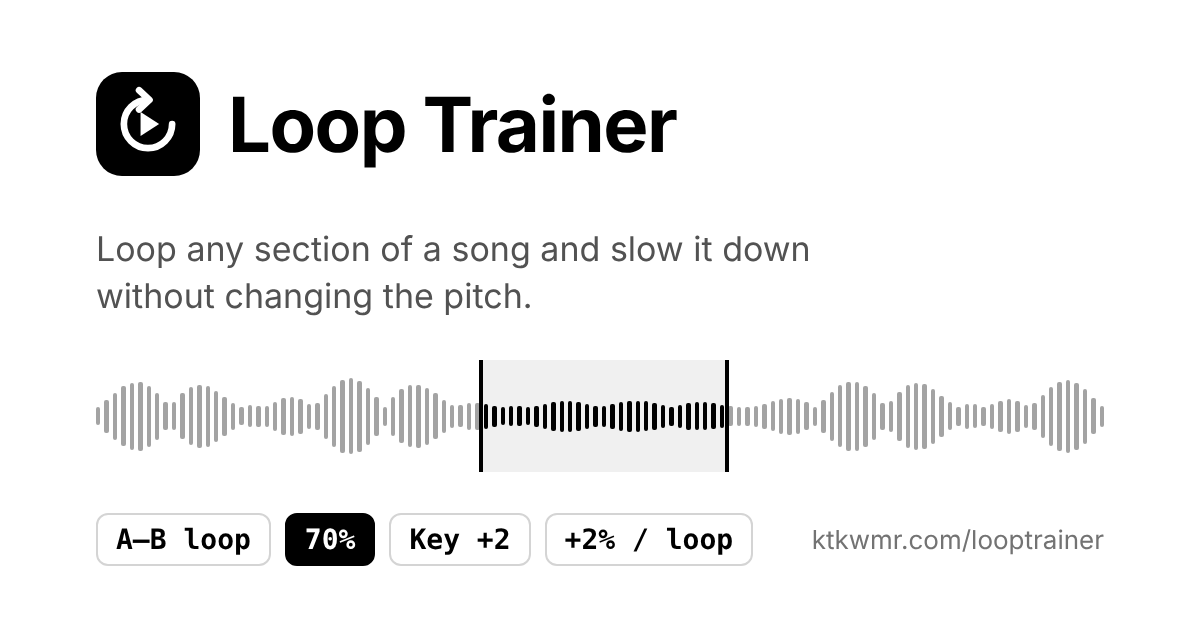
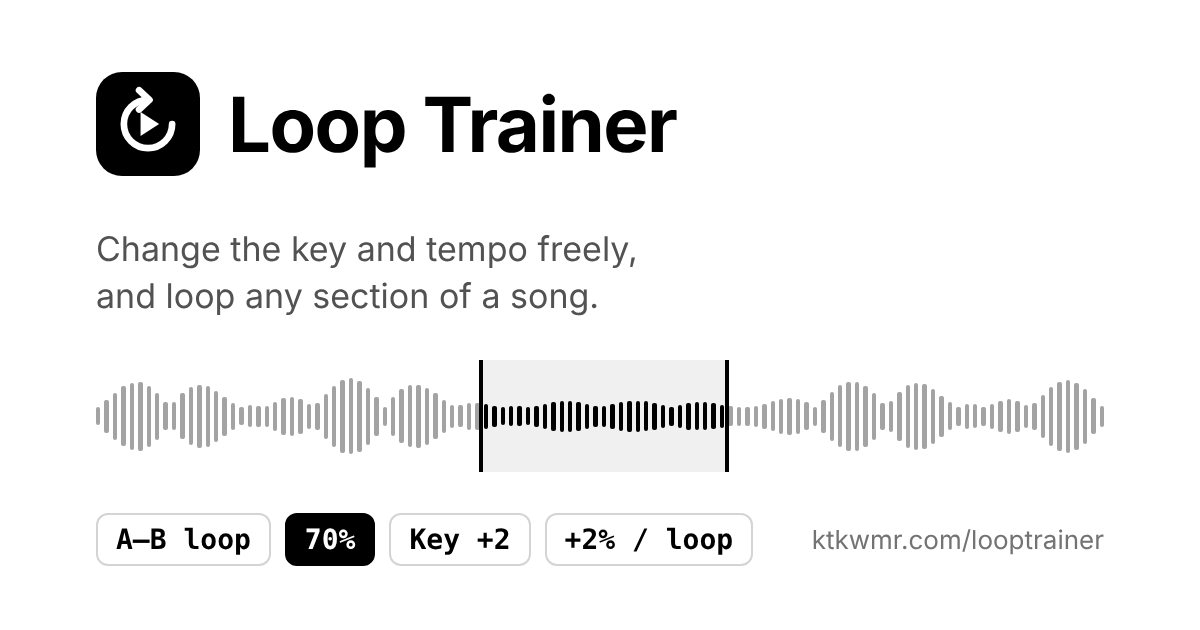
アプリの説明を「キーとテンポを自由に変えて、好きな区間をループ再生」に統一 (#2)
- title・description・OGP・JSON-LD（英日）、h1、冒頭の説明、manifest、情報ページの案内、運営者情報、SNS 用画像
- README・CLAUDE.md の冒頭
- docs/baseline-status.md: Cloudflare 接続・自動デプロイ・トップページ掲載・本番確認を済みに、About の値を新しい文言に

Claude-Session: https://claude.ai/code/session_01Lgcwksu9gho4UzGNuCXc1M

Changed region(s): [[0.0925, 0.3619, 0.6783, 0.4222], [0.0617, 0.4524, 0.4933, 0.5127]]

diff --git a/public/looptrainer/ja/index.html b/public/looptrainer/ja/index.html
@@ -13,16 +13,16 @@
   <link rel="apple-touch-icon" href="icons/apple-touch-icon.png" />
   <link rel="manifest" href="manifest.json" />
   <link rel="icon" type="image/svg+xml" href="icons/icon.svg" />
-  <title>耳コピ用スロー再生・区間ループ｜音程そのまま速度変更が無料 – Loop Trainer</title>
-  <meta name="description" content="耳コピ・フレーズ練習用の無料プレイヤー。音源ファイルの好きな区間をループ再生（A-Bリピート）し、音程を変えずに50%までスロー再生、キー変更もできます。1周ごとに少しずつ速くする機能・カウントイン付き。ファイルはアップロードされず、登録不要。" />
+  <title>キー・テンポを自由に変えて区間ループ｜音程そのままスロー再生できる耳コピ用プレイヤー – Loop Trainer</title>
+  <meta name="description" content="耳コピ・フレーズ練習用の無料プレイヤー。手持ちの音源のキーとテンポを自由に変えて、好きな区間をループ再生（A-Bリピート）。音程を変えずに50%までスロー再生でき、ループは拍に吸着。1周ごとに少しずつ速くする機能・カウントイン付き。ファイルはアップロードされず、登録不要。" />
   <link rel="canonical" href="https://ktkwmr.com/looptrainer/ja/" />
   <link rel="alternate" hreflang="en" href="https://ktkwmr.com/looptrainer/" />
   <link rel="alternate" hreflang="ja" href="https://ktkwmr.com/looptrainer/ja/" />
   <link rel="alternate" hreflang="x-default" href="https://ktkwmr.com/looptrainer/" />
   <meta property="og:type" content="website" />
   <meta property="og:site_name" content="Loop Trainer" />
-  <meta property="og:title" content="耳コピ用スロー再生・区間ループ｜音程そのまま速度変更が無料 – Loop Trainer" />
-  <meta property="og:description" content="区間ループ・音程そのままの速度変更・キー変更、1周ごとに少しずつ速くする機能。ギタリストやバンドの耳コピ練習に。無料・登録不要で、ファイルは端末の外に出ません。" />
+  <meta property="og:title" content="キー・テンポを自由に変えて区間ループ｜音程そのままスロー再生できる耳コピ用プレイヤー – Loop Trainer" />
+  <meta property="og:description" content="キーとテンポを自由に変えて、好きな区間をループ再生。スロー再生でも音程はそのまま。ギタリストやバンドの耳コピ練習に。無料・登録不要で、ファイルは端末の外に出ません。" />
   <meta property="og:locale" content="ja_JP" />
   <meta property="og:locale:alternate" content="en_US" />
   <meta property="og:url" content="https://ktkwmr.com/looptrainer/ja/" />
@@ -37,7 +37,7 @@
     "@type": "WebApplication",
     "name": "Loop Trainer",
     "url": "https://ktkwmr.com/looptrainer/ja/",
-    "description": "音源ファイルの区間をループ再生し、音程を変えずに速度を、テンポを変えずにキーを変えられる練習用プレイヤー。",
+    "description": "音源ファイルのキーとテンポを自由に変えて、好きな区間をループ再生できる練習用プレイヤー（速度を変えても音程、キーを変えてもテンポはそのまま）。",
     "applicationCategory": "MultimediaApplication",
     "inLanguage": "ja",
     "operatingSystem": "Any",
@@ -265,7 +265,7 @@
   </header>
 
   <main class="canvas">
-    <p class="lead" data-i18n="lead">手持ちの音源を開くだけで、曲全体の速度を音程そのままで変えたり（50〜150%）、キーをテンポそのままで変えたりできます。練習したい部分を選べば、拍に合わせてループ再生。ループと設定は曲ごとに保存されます。</p>
+    <p class="lead" data-i18n="lead">手持ちの音源を開いて、キーとテンポを自由に変えられます。速度（50〜150%）を変えても音程はそのまま、キーを変えてもテンポはそのまま。好きな区間を選べば、拍に合わせてループ再生します。ループと設定は曲ごとに保存されます。</p>
 
     <section class="panel out" aria-label="プレイヤー" data-i18n-attr="aria-label:player">
       <div class="panel-head">
@@ -392,7 +392,7 @@
 
   <!-- Description below the app. The generated ja/index.html has it in Japanese, so search engines read it as the page text -->
   <section class="intro" aria-labelledby="introTitle">
-    <h1 id="introTitle" data-i18n="intro.title">音程を変えずにスロー再生・区間ループできる耳コピ練習プレイヤー</h1>
+    <h1 id="introTitle" data-i18n="intro.title">キーとテンポを自由に変えて、好きな区間をループ再生できる耳コピ練習プレイヤー</h1>
     <div class="intro-body" data-i18n-html="intro.body"><p>Loop Trainer は、耳コピやフレーズ練習のための無料の練習用プレイヤーです。手持ちの音源ファイルを開き、波形の上をドラッグして練習したい部分を選ぶと、その区間を何度でも繰り返し再生（A-B リピート）します。曲の拍を自動で検出するので、ループの始まりと終わりがぴったり拍に乗ります。速度を 70% や 50% まで落としても音程（ピッチ）は変わらないので、速いギターソロの一音一音を聞き取りながら、原曲のキーのまま一緒に弾けます。</p>
       <h2>1周ごとに少しずつ速くする</h2>
       <p>「1周ごとに速くする」をオンにすると、最初はゆっくり、ループが一周するたびに少しずつ速くなります（例：70% → 72% → 74% … → 100%）。手を止めて設定を変えなくても、ゆっくり確実に弾くところから原曲のテンポまで続けて練習できます。ループの頭にカウントインのクリックを入れて、構えてから弾き始めることもできます。</p>
@@ -457,7 +457,7 @@
       const I18N = {
         en: {
           "settings": "Settings",
-          "lead": "Open a song you have to change its speed (50–150%) without changing the pitch, or its key without changing the tempo, for the whole song. Pick the part you want to learn and it loops, snapped to the beat. Loops and settings are saved for each song.",
+          "lead": "Open a song you have and change its key and tempo freely: the speed (50–150%) keeps the pitch, and the key keeps the tempo. Pick any section and it loops, snapped to the beat. Loops and settings are saved for each song.",
           "player": "Player",
           "practice": "Practice settings",
           "noFile": "No file open",
@@ -548,7 +548,7 @@
           "menu.help": "How to use",
           "menu.privacy": "Privacy",
           "menu.about": "About",
-          "intro.title": "Slow down a song and loop any section, without changing the pitch",
+          "intro.title": "Change the key and tempo freely, and loop any section of a song",
           "intro.body": "<p>Loop Trainer is a free practice player for learning songs by ear. Open an audio file you have, drag over the waveform to choose the part you want to learn, and it repeats that part as many times as you like. The app finds the beats of the song, so the loop points snap right onto the beat. Slow it down to 70% or even 50% and the pitch stays the same, so you can hear every note of a fast guitar solo and play along in the original key.</p>\n      <h2>Speed up a little on every loop</h2>\n      <p>Turn on “Speed up on every loop” and the loop starts slow, then gets a little faster each time it comes around: for example 70%, 72%, 74% … up to 100%. You practise the phrase slowly first and reach the real tempo without stopping to change anything. A count-in can click before each loop so you have time to get ready.</p>\n      <h2>Speed and key for the whole song, saved loops</h2>\n      <p>You can also simply change the speed or the key of the whole song and listen or play along, without a loop. Shift the key up or down by up to six semitones, together with the speed. Tune to a song recorded a half step down, or move it to fit your voice. The loops, speed, and key are saved for each song in your browser, and you can keep several named loops per song, such as “Intro” and “Solo, first half”. Open the same file next time and you pick up where you left off.</p>\n      <h2>Files stay on your device</h2>\n      <p>The audio is decoded and processed only in your browser and is never uploaded. It works with MP3, AAC (m4a), WAV, and other formats your browser can play, on a computer, tablet, or phone. Music from streaming services (Apple Music, Spotify, YouTube) cannot be opened. No sign-up is needed.</p>",
           "help.body": "<li><b>Open a song</b> – Tap “Open file” or drop an audio file on the waveform. MP3, AAC (m4a), and WAV work in every browser. Music from streaming services cannot be opened.</li>\n        <li><b>Choose the loop</b> – Drag across the waveform. To move a flag, tap A or B (it turns blue) and then tap where it should go, or long-press it and drag. While it plays, “A” and “B” set them at the current position. ◀ and ▶ move them to the previous or next beat. </li>\n        <li><b>Zoom the waveform</b> – Pinch with two fingers to stretch or shrink the waveform, and move two fingers sideways to scroll. On a computer, use Ctrl + wheel (or pinch on the trackpad) and Shift + wheel. “Zoom to loop” fits the loop to the screen; press it again to see the whole song.</li>\n        <li><b>Snap to beats</b> – The app finds the tempo and the beats of the song (♩ ≈ 120 means about 120 BPM), and the loop points snap to the nearest beat. If the tempo looks twice too fast or too slow, use ½ or ×2. Turn off “Snap to beats” to place the points freely (◀ ▶ then move by 0.05 seconds).</li>\n        <li><b>Slow down</b> – Set the speed between 50% and 150% with the buttons or the slider. The pitch does not change.</li>\n        <li><b>Change the key</b> – Move it up or down in semitones (up to ±6). The tempo does not change.</li>\n        <li><b>Speed up on every loop</b> – Turn it on and set where to start, how much to add each loop, and where to stop. It goes back to the first speed when you play from the start of the loop.</li>\n        <li><b>Count-in</b> – Clicks play before each loop. Enter the song's BPM (at 100%) or tap it in; the clicks follow the current speed.</li>\n        <li><b>Saved loops</b> – “+ Save this loop” adds the current loop to the list. Give it a name, and tap its time to go back to it. Everything is saved for each song and comes back when you open the same file.</li>",
           "privacy.body": "<li><b>Your audio stays on your device</b> – Audio files are decoded and played only in your browser. They are never uploaded to a server. This app has no accounts, cookies, or ads.</li>\n        <li><b>Data saved in your browser</b> – For each song you open, the file name and size, the loops, speed, key, and count-in tempo are saved in your browser's storage so they are there next time. The audio itself is not saved. To work offline, the app is saved there too. You can delete them by clearing this site's data in your browser settings.</li>\n        <li><b>Audio library</b> – When you open the first file, the app loads the SoundTouchJS library from the jsDelivr CDN. Like any web request, this sends your IP address and browser information to jsDelivr. Nothing about your audio is sent.</li>\n        <li><b>Server logs and page views</b> – This site is hosted on Cloudflare. Standard access logs (such as IP address, time, and the requested page) are kept for operation and security. Cloudflare Web Analytics counts page views without cookies (the page URL, referrer, browser information, and page load time).</li>\n        <li><b>Contact</b> – Questions and feedback: <a href=\"https://github.com/ktkwmr/LoopTrainer/issues\" target=\"_blank\" rel=\"noopener\">GitHub Issues</a>.</li>\n        <li><b>Full policy</b> – See the <a href=\"/looptrainer/privacy/\">privacy policy</a> and <a href=\"/looptrainer/about/\">about this site</a>.</li>",
@@ -558,7 +558,7 @@
         },
         ja: {
           "settings": "設定",
-          "lead": "手持ちの音源を開くだけで、曲全体の速度を音程そのままで変えたり（50〜150%）、キーをテンポそのままで変えたりできます。練習したい部分を選べば、拍に合わせてループ再生。ループと設定は曲ごとに保存されます。",
+          "lead": "手持ちの音源を開いて、キーとテンポを自由に変えられます。速度（50〜150%）を変えても音程はそのまま、キーを変えてもテンポはそのまま。好きな区間を選べば、拍に合わせてループ再生します。ループと設定は曲ごとに保存されます。",
           "player": "プレイヤー",
           "practice": "練習の設定",
           "noFile": "ファイルが開かれていません",
@@ -649,7 +649,7 @@
           "menu.help": "使い方",
           "menu.privacy": "プライバシー",
           "menu.about": "このアプリについて",
-          "intro.title": "音程を変えずにスロー再生・区間ループできる耳コピ練習プレイヤー",
+          "intro.title": "キーとテンポを自由に変えて、好きな区間をループ再生できる耳コピ練習プレイヤー",
           "intro.body": "<p>Loop Trainer は、耳コピやフレーズ練習のための無料の練習用プレイヤーです。手持ちの音源ファイルを開き、波形の上をドラッグして練習したい部分を選ぶと、その区間を何度でも繰り返し再生（A-B リピート）します。曲の拍を自動で検出するので、ループの始まりと終わりがぴったり拍に乗ります。速度を 70% や 50% まで落としても音程（ピッチ）は変わらないので、速いギターソロの一音一音を聞き取りながら、原曲のキーのまま一緒に弾けます。</p>\n      <h2>1周ごとに少しずつ速くする</h2>\n      <p>「1周ごとに速くする」をオンにすると、最初はゆっくり、ループが一周するたびに少しずつ速くなります（例：70% → 72% → 74% … → 100%）。手を止めて設定を変えなくても、ゆっくり確実に弾くところから原曲のテンポまで続けて練習できます。ループの頭にカウントインのクリックを入れて、構えてから弾き始めることもできます。</p>\n      <h2>曲全体の速度・キー変更とループの保存</h2>\n      <p>ループを使わずに、曲全体の速度やキーを変えて聞いたり、一緒に弾いたりするだけでも使えます。キーは速度と同時に、半音単位で上下 6 つまで変えられます。半音下げチューニングの曲に合わせたり、歌いやすいキーに移したりするときに使えます。ループ範囲・速度・キーは曲ごとにブラウザに保存され、「イントロ」「ソロ前半」のように名前を付けたループを 1 曲にいくつでも残せます。次に同じファイルを開けば、前回の続きから練習できます。</p>\n      <h2>ファイルは端末の外に出ません</h2>\n      <p>音源の読み込みと処理はブラウザの中だけで行い、どこにもアップロードしません。MP3・AAC（m4a）・WAV など、ブラウザが再生できる形式に対応し、パソコン・タブレット・スマホで使えます。Apple Music・Spotify・YouTube など配信サービスの曲は開けません。登録は不要です。</p>",
           "help.body": "<li><b>曲を開く</b> – 「ファイルを開く」を押すか、波形の場所に音源ファイルをドロップします。MP3・AAC（m4a）・WAV はどのブラウザでも開けます。配信サービスの曲は開けません。</li>\n        <li><b>ループ範囲を選ぶ</b> – 波形の上をドラッグします。旗を動かすときは、A か B をタップして（青くなります）移動先をタップするか、長押しして掴んだままドラッグします。再生中に「A」「B」を押すと今の位置に設定されます。◀ ▶ で前後の拍に動かせます。</li>\n        <li><b>波形の拡大・縮小</b> – 2本指でピンチすると波形が横に伸び縮みし、2本指を左右に動かすとスクロールします。パソコンでは Ctrl＋ホイール（トラックパッドのピンチ）と Shift＋ホイールで同じことができます。「ループを拡大」でループを画面いっぱいに表示し、もう一度押すと曲全体に戻ります。</li>\n        <li><b>拍に合わせる</b> – 曲のテンポと拍の位置を自動で検出し（♩ ≈ 120 は約 120 BPM）、A・B が一番近い拍に吸い付きます。テンポが倍や半分に見えるときは ½ か ×2 で直せます。「拍に合わせる」をオフにすると自由な位置に置けます（◀ ▶ は 0.05 秒ずつ）。</li>\n        <li><b>速度を落とす</b> – ボタンやスライダーで 50%〜150% に設定します。音程は変わりません。</li>\n        <li><b>キーを変える</b> – 半音単位で上下に動かします（±6 まで）。テンポは変わりません。</li>\n        <li><b>1周ごとに速くする</b> – オンにして、開始の速度・1周ごとの上げ幅・上限を決めます。ループの先頭から再生すると、開始の速度に戻ります。</li>\n        <li><b>カウントイン</b> – ループの前にクリックが鳴ります。曲の BPM（100% のとき）を入力するか、タップで合わせます。クリックは今の速度に合わせて鳴ります。</li>\n        <li><b>ループの保存</b> – 「＋ このループを保存」で今のループを一覧に追加します。名前を付けておき、時間のボタンを押すと呼び出せます。設定は曲ごとに保存され、同じファイルを開くと元に戻ります。</li>",
           "privacy.body": "<li><b>音源は端末の外に出ません</b> – 音源ファイルの読み込みと再生はブラウザの中だけで行い、サーバーにアップロードすることはありません。アカウント登録・Cookie・広告はありません。</li>\n        <li><b>ブラウザに保存するデータ</b> – 次に開いたときにも使えるよう、開いた曲ごとにファイル名とサイズ、ループ範囲・速度・キー・カウントインのテンポをブラウザ内に保存します。音源そのものは保存しません。オフラインで使えるよう、アプリ本体も保存します。ブラウザの設定でこのサイトのデータを削除すると消えます。</li>\n        <li><b>音声処理のライブラリ</b> – 最初にファイルを開いたとき、jsDelivr（CDN）から SoundTouchJS というライブラリを読み込みます。通常の Web の通信と同じく、IP アドレスやブラウザの情報が jsDelivr に送られます。音源に関する情報は送られません。</li>\n        <li><b>サーバーのログと閲覧数</b> – 本サイトは Cloudflare で配信しています。運用とセキュリティのため、一般的なアクセスログ（IP アドレス・日時・アクセスしたページなど）が記録されます。Cloudflare Web Analytics で、Cookie を使わずにページの閲覧数（ページの URL・参照元・ブラウザの情報・表示速度）を集計しています。</li>\n        <li><b>お問い合わせ</b> – ご質問・ご意見は <a href=\"https://github.com/ktkwmr/LoopTrainer/issues\" target=\"_blank\" rel=\"noopener\">GitHub の Issues</a> へ。</li>\n        <li><b>詳しくは</b> – <a href=\"/looptrainer/ja/privacy/\">プライバシーポリシー</a>と<a href=\"/looptrainer/ja/about/\">運営者情報</a>をご覧ください。</li>",

diff --git a/public/looptrainer/index.html b/public/looptrainer/index.html
@@ -11,16 +11,16 @@
   <link rel="apple-touch-icon" href="icons/apple-touch-icon.png" />
   <link rel="manifest" href="manifest.json" />
   <link rel="icon" type="image/svg+xml" href="icons/icon.svg" />
-  <title>Slow Down Music &amp; Loop a Section for Practice, Pitch Unchanged – Loop Trainer</title>
-  <meta name="description" content="A free online practice player for learning songs by ear. Loop any section (A-B repeat), slow it down to 50% without changing the pitch, change the key, and speed up a little on every loop. Files stay on your device. No sign-up." />
+  <title>Change Key &amp; Tempo, Loop Any Section – Slow Down Music Without Changing Pitch | Loop Trainer</title>
+  <meta name="description" content="A free online practice player for learning songs by ear. Change the key and the tempo of a song you have freely, and loop any section (A-B repeat). Slow down to 50% without changing the pitch, loops snap to the beat, and it can speed up a little on every loop. Files stay on your device. No sign-up." />
   <link rel="canonical" href="https://ktkwmr.com/looptrainer/" />
   <link rel="alternate" hreflang="en" href="https://ktkwmr.com/looptrainer/" />
   <link rel="alternate" hreflang="ja" href="https://ktkwmr.com/looptrainer/ja/" />
   <link rel="alternate" hreflang="x-default" href="https://ktkwmr.com/looptrainer/" />
   <meta property="og:type" content="website" />
   <meta property="og:site_name" content="Loop Trainer" />
-  <meta property="og:title" content="Loop Trainer – Slow down and loop any section of a song" />
-  <meta property="og:description" content="A-B loop, slow down without changing the pitch, change the key, and speed up a little on every loop. A free practice player for guitarists and bands. Files never leave your device." />
+  <meta property="og:title" content="Loop Trainer – Change the key and tempo freely, and loop any section" />
+  <meta property="og:description" content="Change the key and the tempo freely, and loop any section of a song. The pitch stays the same when you slow down. A free practice player for guitarists and bands. Files never leave your device." />
   <meta property="og:locale" content="en_US" />
   <meta property="og:locale:alternate" content="ja_JP" />
   <meta property="og:url" content="https://ktkwmr.com/looptrainer/" />
@@ -35,7 +35,7 @@
     "@type": "WebApplication",
     "name": "Loop Trainer",
     "url": "https://ktkwmr.com/looptrainer/",
-    "description": "A practice player that loops a section of an audio file and slows it down or changes the key without changing the other.",
+    "description": "A practice player that changes the key and the tempo of an audio file freely and loops any section, keeping the pitch when slowing down and the tempo when changing the key.",
     "applicationCategory": "MultimediaApplication",
     "inLanguage": "en",
     "operatingSystem": "Any",
@@ -263,7 +263,7 @@
   </header>
 
   <main class="canvas">
-    <p class="lead" data-i18n="lead">Open a song you have to change its speed (50–150%) without changing the pitch, or its key without changing the tempo, for the whole song. Pick the part you want to learn and it loops, snapped to the beat. Loops and settings are saved for each song.</p>
+    <p class="lead" data-i18n="lead">Open a song you have and change its key and tempo freely: the speed (50–150%) keeps the pitch, and the key keeps the tempo. Pick any section and it loops, snapped to the beat. Loops and settings are saved for each song.</p>
 
     <section class="panel out" aria-label="Player" data-i18n-attr="aria-label:player">
       <div class="panel-head">
@@ -390,7 +390,7 @@
 
   <!-- Description below the app. The generated ja/index.html has it in Japanese, so search engines read it as the page text -->
   <section class="intro" aria-labelledby="introTitle">
-    <h1 id="introTitle" data-i18n="intro.title">Slow down a song and loop any section, without changing the pitch</h1>
+    <h1 id="introTitle" data-i18n="intro.title">Change the key and tempo freely, and loop any section of a song</h1>
     <div class="intro-body" data-i18n-html="intro.body">
       <p>Loop Trainer is a free practice player for learning songs by ear. Open an audio file you have, drag over the waveform to choose the part you want to learn, and it repeats that part as many times as you like. The app finds the beats of the song, so the loop points snap right onto the beat. Slow it down to 70% or even 50% and the pitch stays the same, so you can hear every note of a fast guitar solo and play along in the original key.</p>
       <h2>Speed up a little on every loop</h2>
@@ -461,7 +461,7 @@
       const I18N = {
         en: {
           "settings": "Settings",
-          "lead": "Open a song you have to change its speed (50–150%) without changing the pitch, or its key without changing the tempo, for the whole song. Pick the part you want to learn and it loops, snapped to the beat. Loops and settings are saved for each song.",
+          "lead": "Open a song you have and change its key and tempo freely: the speed (50–150%) keeps the pitch, and the key keeps the tempo. Pick any section and it loops, snapped to the beat. Loops and settings are saved for each song.",
           "player": "Player",
           "practice": "Practice settings",
           "noFile": "No file open",
@@ -552,7 +552,7 @@
           "menu.help": "How to use",
           "menu.privacy": "Privacy",
           "menu.about": "About",
-          "intro.title": "Slow down a song and loop any section, without changing the pitch",
+          "intro.title": "Change the key and tempo freely, and loop any section of a song",
           "intro.body": "<p>Loop Trainer is a free practice player for learning songs by ear. Open an audio file you have, drag over the waveform to choose the part you want to learn, and it repeats that part as many times as you like. The app finds the beats of the song, so the loop points snap right onto the beat. Slow it down to 70% or even 50% and the pitch stays the same, so you can hear every note of a fast guitar solo and play along in the original key.</p>\n      <h2>Speed up a little on every loop</h2>\n      <p>Turn on “Speed up on every loop” and the loop starts slow, then gets a little faster each time it comes around: for example 70%, 72%, 74% … up to 100%. You practise the phrase slowly first and reach the real tempo without stopping to change anything. A count-in can click before each loop so you have time to get ready.</p>\n      <h2>Speed and key for the whole song, saved loops</h2>\n      <p>You can also simply change the speed or the key of the whole song and listen or play along, without a loop. Shift the key up or down by up to six semitones, together with the speed. Tune to a song recorded a half step down, or move it to fit your voice. The loops, speed, and key are saved for each song in your browser, and you can keep several named loops per song, such as “Intro” and “Solo, first half”. Open the same file next time and you pick up where you left off.</p>\n      <h2>Files stay on your device</h2>\n      <p>The audio is decoded and processed only in your browser and is never uploaded. It works with MP3, AAC (m4a), WAV, and other formats your browser can play, on a computer, tablet, or phone. Music from streaming services (Apple Music, Spotify, YouTube) cannot be opened. No sign-up is needed.</p>",
           "help.body": "<li><b>Open a song</b> – Tap “Open file” or drop an audio file on the waveform. MP3, AAC (m4a), and WAV work in every browser. Music from streaming services cannot be opened.</li>\n        <li><b>Choose the loop</b> – Drag across the waveform. To move a flag, tap A or B (it turns blue) and then tap where it should go, or long-press it and drag. While it plays, “A” and “B” set them at the current position. ◀ and ▶ move them to the previous or next beat. </li>\n        <li><b>Zoom the waveform</b> – Pinch with two fingers to stretch or shrink the waveform, and move two fingers sideways to scroll. On a computer, use Ctrl + wheel (or pinch on the trackpad) and Shift + wheel. “Zoom to loop” fits the loop to the screen; press it again to see the whole song.</li>\n        <li><b>Snap to beats</b> – The app finds the tempo and the beats of the song (♩ ≈ 120 means about 120 BPM), and the loop points snap to the nearest beat. If the tempo looks twice too fast or too slow, use ½ or ×2. Turn off “Snap to beats” to place the points freely (◀ ▶ then move by 0.05 seconds).</li>\n        <li><b>Slow down</b> – Set the speed between 50% and 150% with the buttons or the slider. The pitch does not change.</li>\n        <li><b>Change the key</b> – Move it up or down in semitones (up to ±6). The tempo does not change.</li>\n        <li><b>Speed up on every loop</b> – Turn it on and set where to start, how much to add each loop, and where to stop. It goes back to the first speed when you play from the start of the loop.</li>\n        <li><b>Count-in</b> – Clicks play before each loop. Enter the song's BPM (at 100%) or tap it in; the clicks follow the current speed.</li>\n        <li><b>Saved loops</b> – “+ Save this loop” adds the current loop to the list. Give it a name, and tap its time to go back to it. Everything is saved for each song and comes back when you open the same file.</li>",
           "privacy.body": "<li><b>Your audio stays on your device</b> – Audio files are decoded and played only in your browser. They are never uploaded to a server. This app has no accounts, cookies, or ads.</li>\n        <li><b>Data saved in your browser</b> – For each song you open, the file name and size, the loops, speed, key, and count-in tempo are saved in your browser's storage so they are there next time. The audio itself is not saved. To work offline, the app is saved there too. You can delete them by clearing this site's data in your browser settings.</li>\n        <li><b>Audio library</b> – When you open the first file, the app loads the SoundTouchJS library from the jsDelivr CDN. Like any web request, this sends your IP address and browser information to jsDelivr. Nothing about your audio is sent.</li>\n        <li><b>Server logs and page views</b> – This site is hosted on Cloudflare. Standard access logs (such as IP address, time, and the requested page) are kept for operation and security. Cloudflare Web Analytics counts page views without cookies (the page URL, referrer, browser information, and page load time).</li>\n        <li><b>Contact</b> – Questions and feedback: <a href=\"https://github.com/ktkwmr/LoopTrainer/issues\" target=\"_blank\" rel=\"noopener\">GitHub Issues</a>.</li>\n        <li><b>Full policy</b> – See the <a href=\"/looptrainer/privacy/\">privacy policy</a> and <a href=\"/looptrainer/about/\">about this site</a>.</li>",
@@ -562,7 +562,7 @@
         },
         ja: {
           "settings": "設定",
-          "lead": "手持ちの音源を開くだけで、曲全体の速度を音程そのままで変えたり（50〜150%）、キーをテンポそのままで変えたりできます。練習したい部分を選べば、拍に合わせてループ再生。ループと設定は曲ごとに保存されます。",
+          "lead": "手持ちの音源を開いて、キーとテンポを自由に変えられます。速度（50〜150%）を変えても音程はそのまま、キーを変えてもテンポはそのまま。好きな区間を選べば、拍に合わせてループ再生します。ループと設定は曲ごとに保存されます。",
           "player": "プレイヤー",
           "practice": "練習の設定",
           "noFile": "ファイルが開かれていません",
@@ -653,7 +653,7 @@
           "menu.help": "使い方",
           "menu.privacy": "プライバシー",
           "menu.about": "このアプリについて",
-          "intro.title": "音程を変えずにスロー再生・区間ループできる耳コピ練習プレイヤー",
+          "intro.title": "キーとテンポを自由に変えて、好きな区間をループ再生できる耳コピ練習プレイヤー",
           "intro.body": "<p>Loop Trainer は、耳コピやフレーズ練習のための無料の練習用プレイヤーです。手持ちの音源ファイルを開き、波形の上をドラッグして練習したい部分を選ぶと、その区間を何度でも繰り返し再生（A-B リピート）します。曲の拍を自動で検出するので、ループの始まりと終わりがぴったり拍に乗ります。速度を 70% や 50% まで落としても音程（ピッチ）は変わらないので、速いギターソロの一音一音を聞き取りながら、原曲のキーのまま一緒に弾けます。</p>\n      <h2>1周ごとに少しずつ速くする</h2>\n      <p>「1周ごとに速くする」をオンにすると、最初はゆっくり、ループが一周するたびに少しずつ速くなります（例：70% → 72% → 74% … → 100%）。手を止めて設定を変えなくても、ゆっくり確実に弾くところから原曲のテンポまで続けて練習できます。ループの頭にカウントインのクリックを入れて、構えてから弾き始めることもできます。</p>\n      <h2>曲全体の速度・キー変更とループの保存</h2>\n      <p>ループを使わずに、曲全体の速度やキーを変えて聞いたり、一緒に弾いたりするだけでも使えます。キーは速度と同時に、半音単位で上下 6 つまで変えられます。半音下げチューニングの曲に合わせたり、歌いやすいキーに移したりするときに使えます。ループ範囲・速度・キーは曲ごとにブラウザに保存され、「イントロ」「ソロ前半」のように名前を付けたループを 1 曲にいくつでも残せます。次に同じファイルを開けば、前回の続きから練習できます。</p>\n      <h2>ファイルは端末の外に出ません</h2>\n      <p>音源の読み込みと処理はブラウザの中だけで行い、どこにもアップロードしません。MP3・AAC（m4a）・WAV など、ブラウザが再生できる形式に対応し、パソコン・タブレット・スマホで使えます。Apple Music・Spotify・YouTube など配信サービスの曲は開けません。登録は不要です。</p>",
           "help.body": "<li><b>曲を開く</b> – 「ファイルを開く」を押すか、波形の場所に音源ファイルをドロップします。MP3・AAC（m4a）・WAV はどのブラウザでも開けます。配信サービスの曲は開けません。</li>\n        <li><b>ループ範囲を選ぶ</b> – 波形の上をドラッグします。旗を動かすときは、A か B をタップして（青くなります）移動先をタップするか、長押しして掴んだままドラッグします。再生中に「A」「B」を押すと今の位置に設定されます。◀ ▶ で前後の拍に動かせます。</li>\n        <li><b>波形の拡大・縮小</b> – 2本指でピンチすると波形が横に伸び縮みし、2本指を左右に動かすとスクロールします。パソコンでは Ctrl＋ホイール（トラックパッドのピンチ）と Shift＋ホイールで同じことができます。「ループを拡大」でループを画面いっぱいに表示し、もう一度押すと曲全体に戻ります。</li>\n        <li><b>拍に合わせる</b> – 曲のテンポと拍の位置を自動で検出し（♩ ≈ 120 は約 120 BPM）、A・B が一番近い拍に吸い付きます。テンポが倍や半分に見えるときは ½ か ×2 で直せます。「拍に合わせる」をオフにすると自由な位置に置けます（◀ ▶ は 0.05 秒ずつ）。</li>\n        <li><b>速度を落とす</b> – ボタンやスライダーで 50%〜150% に設定します。音程は変わりません。</li>\n        <li><b>キーを変える</b> – 半音単位で上下に動かします（±6 まで）。テンポは変わりません。</li>\n        <li><b>1周ごとに速くする</b> – オンにして、開始の速度・1周ごとの上げ幅・上限を決めます。ループの先頭から再生すると、開始の速度に戻ります。</li>\n        <li><b>カウントイン</b> – ループの前にクリックが鳴ります。曲の BPM（100% のとき）を入力するか、タップで合わせます。クリックは今の速度に合わせて鳴ります。</li>\n        <li><b>ループの保存</b> – 「＋ このループを保存」で今のループを一覧に追加します。名前を付けておき、時間のボタンを押すと呼び出せます。設定は曲ごとに保存され、同じファイルを開くと元に戻ります。</li>",
           "privacy.body": "<li><b>音源は端末の外に出ません</b> – 音源ファイルの読み込みと再生はブラウザの中だけで行い、サーバーにアップロードすることはありません。アカウント登録・Cookie・広告はありません。</li>\n        <li><b>ブラウザに保存するデータ</b> – 次に開いたときにも使えるよう、開いた曲ごとにファイル名とサイズ、ループ範囲・速度・キー・カウントインのテンポをブラウザ内に保存します。音源そのものは保存しません。オフラインで使えるよう、アプリ本体も保存します。ブラウザの設定でこのサイトのデータを削除すると消えます。</li>\n        <li><b>音声処理のライブラリ</b> – 最初にファイルを開いたとき、jsDelivr（CDN）から SoundTouchJS というライブラリを読み込みます。通常の Web の通信と同じく、IP アドレスやブラウザの情報が jsDelivr に送られます。音源に関する情報は送られません。</li>\n        <li><b>サーバーのログと閲覧数</b> – 本サイトは Cloudflare で配信しています。運用とセキュリティのため、一般的なアクセスログ（IP アドレス・日時・アクセスしたページなど）が記録されます。Cloudflare Web Analytics で、Cookie を使わずにページの閲覧数（ページの URL・参照元・ブラウザの情報・表示速度）を集計しています。</li>\n        <li><b>お問い合わせ</b> – ご質問・ご意見は <a href=\"https://github.com/ktkwmr/LoopTrainer/issues\" target=\"_blank\" rel=\"noopener\">GitHub の Issues</a> へ。</li>\n        <li><b>詳しくは</b> – <a href=\"/looptrainer/ja/privacy/\">プライバシーポリシー</a>と<a href=\"/looptrainer/ja/about/\">運営者情報</a>をご覧ください。</li>",

diff --git a/public/looptrainer/ja/about/index.html b/public/looptrainer/ja/about/index.html
@@ -174,7 +174,7 @@
       <tr><th scope="row">サイト名</th><td>Loop Trainer</td></tr>
       <tr><th scope="row">URL</th><td><a href="/looptrainer/ja/">https://ktkwmr.com/looptrainer/ja/</a></td></tr>
       <tr><th scope="row">運営者</th><td>ktkwmr（個人開発者）</td></tr>
-      <tr><th scope="row">内容</th><td>音源ファイルの区間をループ再生し、音程を変えずに速度を、テンポを変えずにキーを変えられる、耳コピ・フレーズ練習用の無料 Web アプリ</td></tr>
+      <tr><th scope="row">内容</th><td>音源ファイルのキーとテンポを自由に変えて、好きな区間をループ再生できる、耳コピ・フレーズ練習用の無料 Web アプリ</td></tr>
       <tr><th scope="row">お問い合わせ</th><td><a href="https://github.com/ktkwmr/LoopTrainer/issues" rel="noopener">GitHub の Issues</a></td></tr>
     </tbody>
   </table>
@@ -203,8 +203,8 @@
 <p>本サイトでの情報の取り扱いについては<a href="../privacy/">プライバシーポリシー</a>をご覧ください。</p>
     </article>
     <aside class="cta">
-      <h2>区間ループとスロー再生で耳コピ</h2>
-      <p>曲の好きな区間をループし、音程を変えずにゆっくり再生。1周ごとに少しずつ速くもできます。無料・登録不要で、ファイルは端末の外に出ません。</p>
+      <h2>キーもテンポも自由に、好きな区間をループ</h2>
+      <p>手持ちの音源のキーとテンポを自由に変えて、好きな区間をループ再生。スロー再生でも音程は変わりません。無料・登録不要で、ファイルは端末の外に出ません。</p>
       <a class="btn" href="/looptrainer/ja/">アプリを開く</a>
     </aside>
   </main>

diff --git a/public/looptrainer/about/index.html b/public/looptrainer/about/index.html
@@ -174,7 +174,7 @@
       <tr><th scope="row">Site name</th><td>Loop Trainer</td></tr>
       <tr><th scope="row">URL</th><td><a href="/looptrainer/">https://ktkwmr.com/looptrainer/</a></td></tr>
       <tr><th scope="row">Operator</th><td>ktkwmr (individual developer)</td></tr>
-      <tr><th scope="row">What we offer</th><td>A free web app for practising songs by ear: it loops a section of an audio file and changes the speed or the key without changing the other</td></tr>
+      <tr><th scope="row">What we offer</th><td>A free web app for practising songs by ear: it changes the key and the tempo of an audio file freely and loops any section</td></tr>
       <tr><th scope="row">Contact</th><td><a href="https://github.com/ktkwmr/LoopTrainer/issues" rel="noopener">GitHub Issues</a></td></tr>
     </tbody>
   </table>
@@ -203,8 +203,8 @@
 <p>How this site handles information is described in the <a href="../privacy/">privacy policy</a>.</p>
     </article>
     <aside class="cta">
-      <h2>Loop it, slow it down, learn it</h2>
-      <p>Loop any section of a song, slow it down without changing the pitch, and speed up a little on every loop. Free, no sign-up, and your files never leave your device.</p>
+      <h2>Any key, any tempo, any section</h2>
+      <p>Change the key and the tempo freely and loop any section of a song. The pitch stays the same when you slow down. Free, no sign-up, and your files never leave your device.</p>
       <a class="btn" href="/looptrainer/">Open the app</a>
     </aside>
   </main>

diff --git a/public/looptrainer/ja/privacy/index.html b/public/looptrainer/ja/privacy/index.html
@@ -223,8 +223,8 @@
 <p>制定日：2026 年 10 月 24 日（最終改定日：2026 年 10 月 24 日）</p>
     </article>
     <aside class="cta">
-      <h2>区間ループとスロー再生で耳コピ</h2>
-      <p>曲の好きな区間をループし、音程を変えずにゆっくり再生。1周ごとに少しずつ速くもできます。無料・登録不要で、ファイルは端末の外に出ません。</p>
+      <h2>キーもテンポも自由に、好きな区間をループ</h2>
+      <p>手持ちの音源のキーとテンポを自由に変えて、好きな区間をループ再生。スロー再生でも音程は変わりません。無料・登録不要で、ファイルは端末の外に出ません。</p>
       <a class="btn" href="/looptrainer/ja/">アプリを開く</a>
     </aside>
   </main>

diff --git a/scripts/og-image.html b/scripts/og-image.html
@@ -29,7 +29,7 @@
       <svg viewBox="0 0 28 28"><rect width="28" height="28" rx="7"/><g fill="none" stroke="#fff" stroke-width="1.8" stroke-linecap="round" stroke-linejoin="round"><path d="M20.5 14A6.5 6.5 0 1 1 14 7.5"/><path d="M11.6 4.9l2.8 2.6-2.8 2.6"/></g><path d="M12 10.8v6.4l5-3.2z" fill="#fff"/></svg>
       <h1>Loop Trainer</h1>
     </div>
-    <p>Loop any section of a song and slow it down<br />without changing the pitch.</p>
+    <p>Change the key and tempo freely,<br />and loop any section of a song.</p>
     <div class="wave" id="wave"><div class="loop" style="left:38%;width:24%"></div></div>
     <div class="row">
       <div class="tags"><span>A–B loop</span><span class="on">70%</span><span>Key +2</span><span>+2% / loop</span></div>

diff --git a/public/looptrainer/privacy/index.html b/public/looptrainer/privacy/index.html
@@ -223,8 +223,8 @@
 <p>Effective: October 24, 2026 (last updated: October 24, 2026)</p>
     </article>
     <aside class="cta">
-      <h2>Loop it, slow it down, learn it</h2>
-      <p>Loop any section of a song, slow it down without changing the pitch, and speed up a little on every loop. Free, no sign-up, and your files never leave your device.</p>
+      <h2>Any key, any tempo, any section</h2>
+      <p>Change the key and the tempo freely and loop any section of a song. The pitch stays the same when you slow down. Free, no sign-up, and your files never leave your device.</p>
       <a class="btn" href="/looptrainer/">Open the app</a>
     </aside>
   </main>

diff --git a/docs/baseline-status.md b/docs/baseline-status.md
@@ -6,7 +6,7 @@
 |---|---|---|---|
 | 1-1〜1-7 | アカウントと開発環境 | ✅ | ほかのアプリで実施済み |
 | 1-4 | Claude の GitHub App のアクセス | ✅ | このセッションで push できている |
-| 1-8 | Cloudflare の GitHub App のアクセス | 👤 待ち | 「Only select repositories」なら `ktkwmr/LoopTrainer` を追加 |
+| 1-8 | Cloudflare の GitHub App のアクセス | ✅ | |
 | 2-1 | wrangler.jsonc（`previews: {}` 含む） | ✅ | |
 | 2-2 | `_redirects` | 対象外 | ドメイン直下は `ktkwmr/ktkwmr.com` |
 | 2-3 | 404.html | ✅ | アプリのアイコンを使い、アプリへ戻る |
@@ -17,16 +17,16 @@
 | 2-8 | LICENSE（MIT） | ✅ | SoundTouchJS（LGPL）は CDN から別ファイルで読み込み |
 | 2-9 | CLAUDE.md | ✅ | |
 | 2-10 | バージョン番号を出さない | ✅ | |
-| 2-11 | Cloudflare に接続（Workers Builds） | 👤 待ち | Project name は `looptrainer` |
-| 2-13 | 自動デプロイの確認 | 🤝 待ち | 接続後に main へ push して「Workers Builds: looptrainer」のチェックを確認 |
+| 2-11 | Cloudflare に接続（Workers Builds） | ✅ | Project name `looptrainer`、本番ブランチ `main` |
+| 2-13 | 自動デプロイの確認 | ✅ | LoopTrainer #1 で「Workers Builds: looptrainer」が success |
 | 2-14 | 2 つ目以降のアプリ（routes・`workers_dev: false`・`preview_urls: true`、sitemap は `/looptrainer/`） | ✅ | |
-| 2-16 | トップページへの追加 | ❌ | 公開後に `ktkwmr/ktkwmr.com` へ PR（`home.mjs` の `APPS`・`ICON`、`robots.txt` の `Sitemap:`） |
+| 2-16 | トップページへの追加 | ✅ | ktkwmr.com #2（`APPS`・`ICON`・`PREVIEW`、`robots.txt` の `Sitemap:`）。説明を変えたら同じく PR |
 | 3-1〜3-5 | PWA（manifest・アイコン・meta・sw.js・登録） | ✅ | sw.js はバージョン固定の CDN ライブラリだけキャッシュ優先で保存（オフライン用） |
 | 3-6 | `file://` 不可を README に | ✅ | |
 | 3-7 | インストールの案内 | ❌ | 任意 |
 | 3-8 | アイコンを render-icons.mjs で生成 | ✅ | |
 | 4-1〜4-3 | I18N・言語の決め方・ja/index.html 生成 | ✅ | |
-| 4-4 | 日本語の検索用タイトル・説明 | 🤝 確認待ち | `scripts/build-ja.mjs` 冒頭。title「耳コピ用スロー再生・区間ループ｜音程そのまま速度変更が無料 – Loop Trainer」 |
+| 4-4 | 日本語の検索用タイトル・説明 | ✅ | `scripts/build-ja.mjs` 冒頭。title「キー・テンポを自由に変えて区間ループ｜音程そのままスロー再生できる耳コピ用プレイヤー – Loop Trainer」 |
 | 5-1〜5-6 | title・canonical・hreflang・OGP・og-image・JSON-LD・sitemap | ✅ | |
 | 5-7・5-8 | h1 とアプリの下の説明 | ✅ | `.intro`（`intro.title` / `intro.body`） |
 | 5-10 | sitemap はアプリごと | ✅ | `/looptrainer/sitemap.xml` |
@@ -53,7 +53,8 @@
 | 11-1〜11-3 | Cloudflare Web Analytics | ✅ | 同じ token |
 | 11-4 | 本番で beacon を確認 | 👤 待ち | |
 | 12-1・12-2 | Actions（生成・ライセンス） | ✅ | |
-| 13-1〜13-5 | 公開時の確認 | 👤 待ち | 特に iPhone 実機（音が出るか、サイレントスイッチ、長い曲） |
-| 13-4 | GitHub の About | 🤝 待ち | Description: `Loop any section of a song and slow it down without changing the pitch. 耳コピ用の区間ループ・スロー再生プレイヤー` / Website: `https://ktkwmr.com/looptrainer/` / Topics: `music` `practice` `slow-down` `ab-repeat` `pitch-shift` `time-stretch` `ear-training` `guitar` `web-audio` `pwa` |
+| 13-1〜13-3 | 本番デプロイ・本番での動作・iPhone 実機 | ✅ | ユーザーが確認済み（2026-10-25） |
+| 13-4 | GitHub の About | 🤝 待ち | Description: `Change the key and tempo freely, and loop any section of a song. キーとテンポを自由に変えて、好きな区間をループ再生できる耳コピ練習プレイヤー` / Website: `https://ktkwmr.com/looptrainer/` / Topics: `music` `practice` `slow-down` `ab-repeat` `pitch-shift` `time-stretch` `beat-detection` `ear-training` `guitar` `web-audio` `pwa` |
+| 13-5 | SNS のカード表示 | 👤 待ち | X や LINE に URL を貼って画像付きのカードが出るか |
 | 14-1〜14-5 | 公開後（Search Console など） | 👤 待ち | sitemap: `https://ktkwmr.com/looptrainer/sitemap.xml` |
 | 15 | 収益化 | 対象外 | |

diff --git a/README.md b/README.md
@@ -1,8 +1,8 @@
 # Loop Trainer
 
-A practice player for learning songs by ear. Open an audio file you have, loop any section (A-B repeat), slow it down to 50% without changing the pitch, change the key without changing the tempo, and let it speed up a little on every loop.
+A practice player for learning songs by ear. Open an audio file you have, change its key and tempo freely, and loop any section (A-B repeat). Slowing down (to 50%) keeps the pitch, changing the key keeps the tempo, loops snap to the beat, and it can speed up a little on every loop.
 
-耳コピ・フレーズ練習用のプレイヤーです。手持ちの音源ファイルを開いて好きな区間をループ再生（A-B リピート）し、音程を変えずに 50% までスロー再生、テンポを変えずにキー変更ができます。1 周ごとに少しずつ速くする機能もあります。
+耳コピ・フレーズ練習用のプレイヤーです。手持ちの音源ファイルのキーとテンポを自由に変えて、好きな区間をループ再生（A-B リピート）できます。50% までスロー再生しても音程はそのまま、キーを変えてもテンポはそのまま。ループは拍に吸着し、1 周ごとに少しずつ速くする機能もあります。
 
 **▶ https://ktkwmr.com/looptrainer/** (日本語: https://ktkwmr.com/looptrainer/ja/)
 

diff --git a/CLAUDE.md b/CLAUDE.md
@@ -1,6 +1,6 @@
 # Loop Trainer
 
-耳コピ・フレーズ練習用の区間ループ＆減速プレイヤー（音程を変えずに速度変更、テンポを変えずにキー変更）。公開 URL: https://ktkwmr.com/looptrainer/ （日本語: /looptrainer/ja/）
+耳コピ・フレーズ練習用のプレイヤー。キーとテンポを自由に変えて、好きな区間をループ再生する（音程を変えずに速度変更、テンポを変えずにキー変更）。公開 URL: https://ktkwmr.com/looptrainer/ （日本語: /looptrainer/ja/）
 構成・開発・デプロイの詳細は README.md を参照。
 
 ## 共通ベースライン
